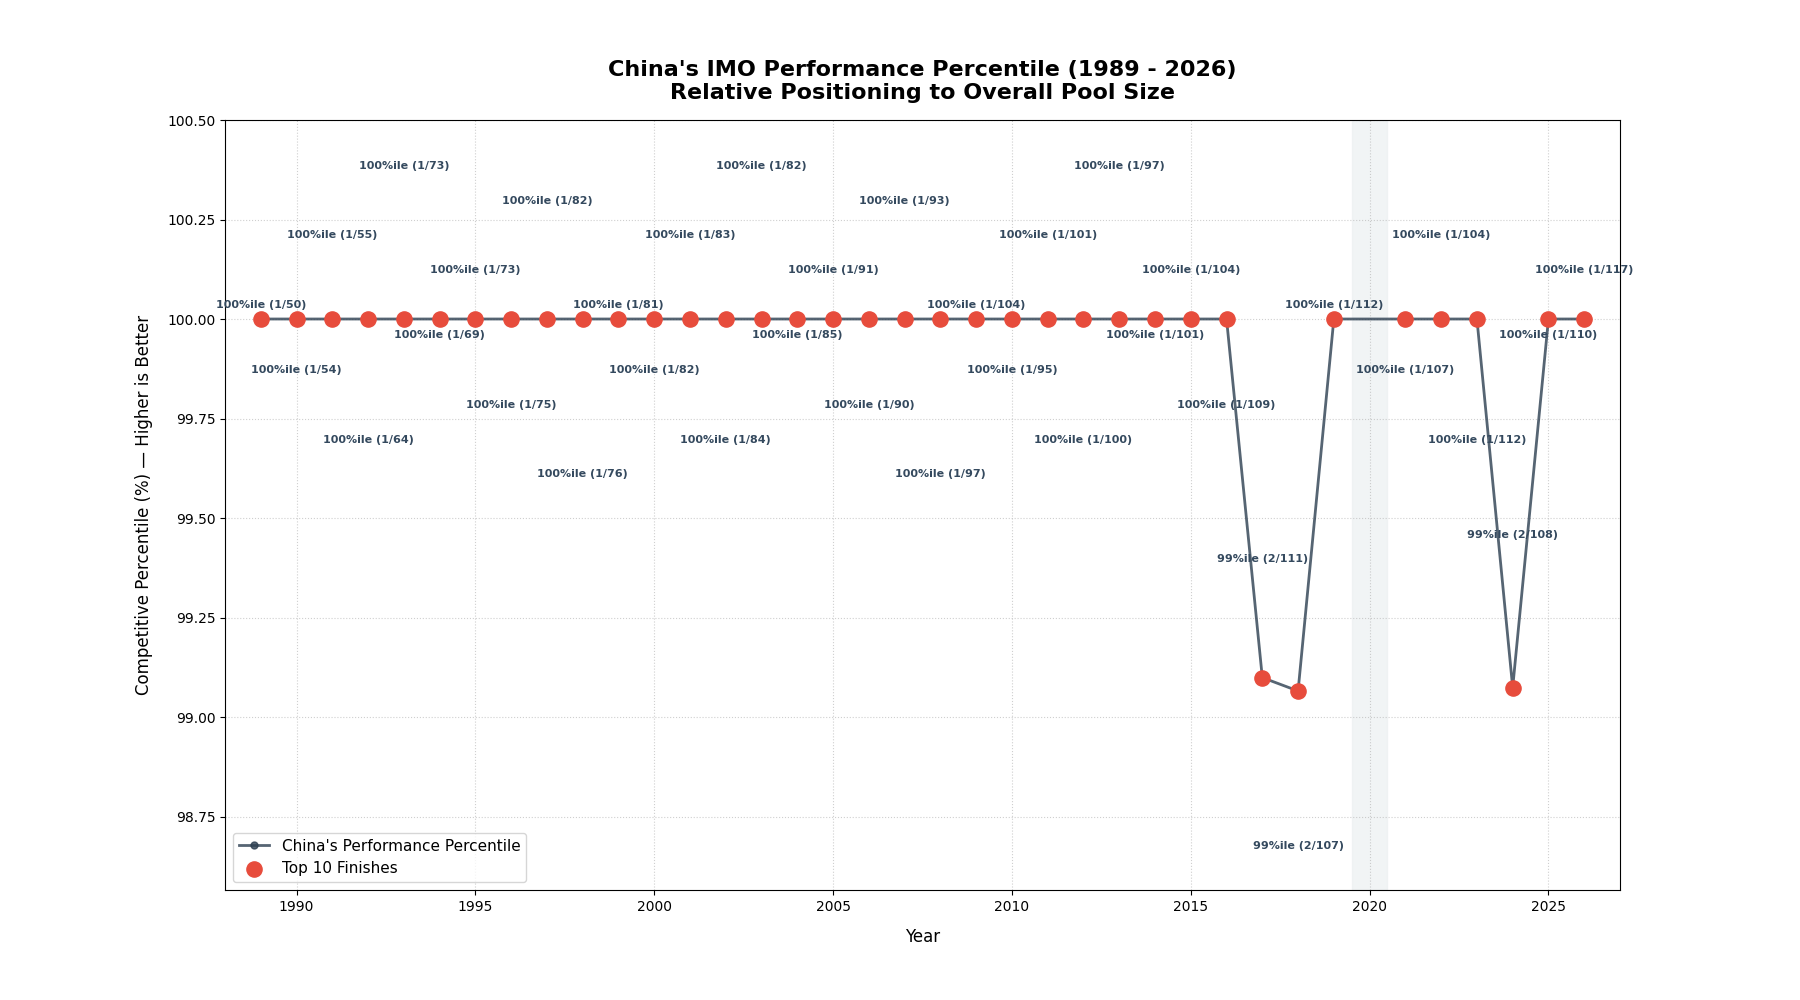
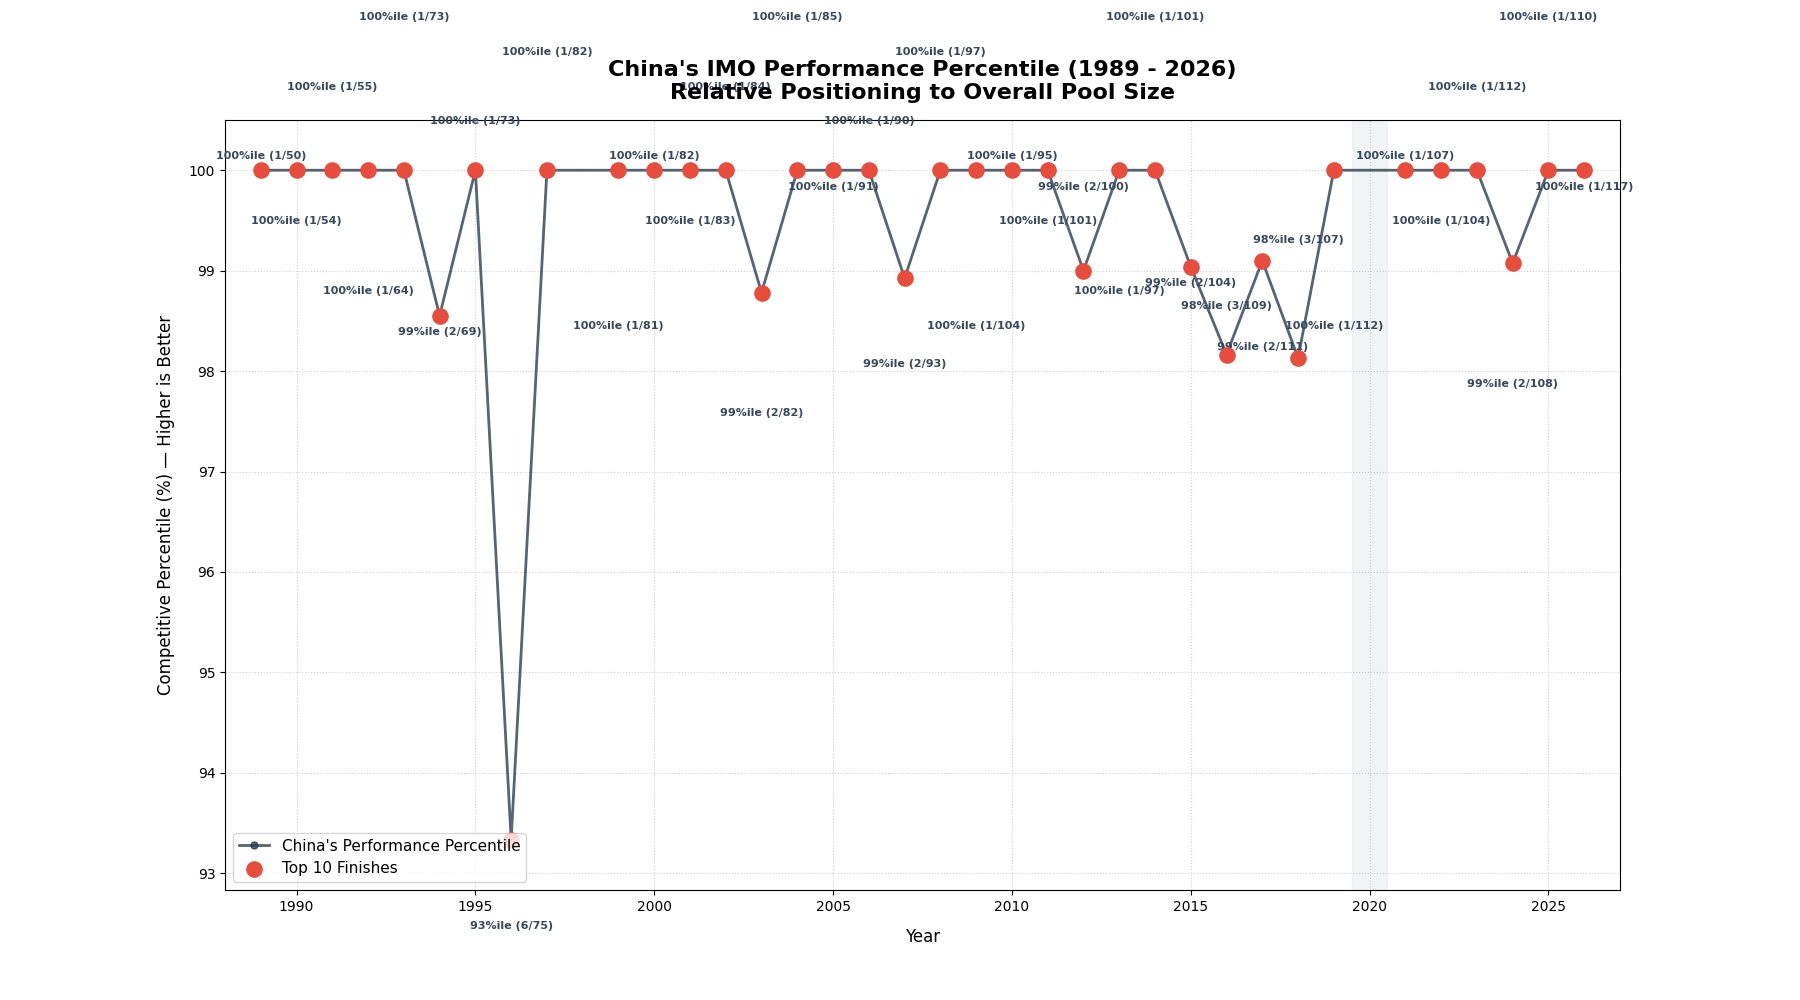
.\china_imo_percentile.py

diff --git a/china_imo_percentile.py b/china_imo_percentile.py
@@ -10,31 +10,30 @@ imo_data = [
     (1991, 1, 55),
     (1992, 1, 64),
     (1993, 1, 73),
-    (1994, 1, 69),
+    (1994, 2, 69),
     (1995, 1, 73),
-    (1996, 1, 75),
+    (1996, 6, 75),
     (1997, 1, 82),
-    (1998, 1, 76),
     (1999, 1, 81),
     (2000, 1, 82),
     (2001, 1, 83),
     (2002, 1, 84),
-    (2003, 1, 82),
+    (2003, 2, 82),
     (2004, 1, 85),
     (2005, 1, 91),
     (2006, 1, 90),
-    (2007, 1, 93),
+    (2007, 2, 93),
     (2008, 1, 97),
     (2009, 1, 104),
     (2010, 1, 95),
     (2011, 1, 101),
-    (2012, 1, 100),
+    (2012, 2, 100),
     (2013, 1, 97),
     (2014, 1, 101),
-    (2015, 1, 104),
-    (2016, 1, 109),
+    (2015, 2, 104),
+    (2016, 3, 109),
     (2017, 2, 111),
-    (2018, 2, 107),
+    (2018, 3, 107),
     (2019, 1, 112),
     (2021, 1, 107),
     (2022, 1, 104),
